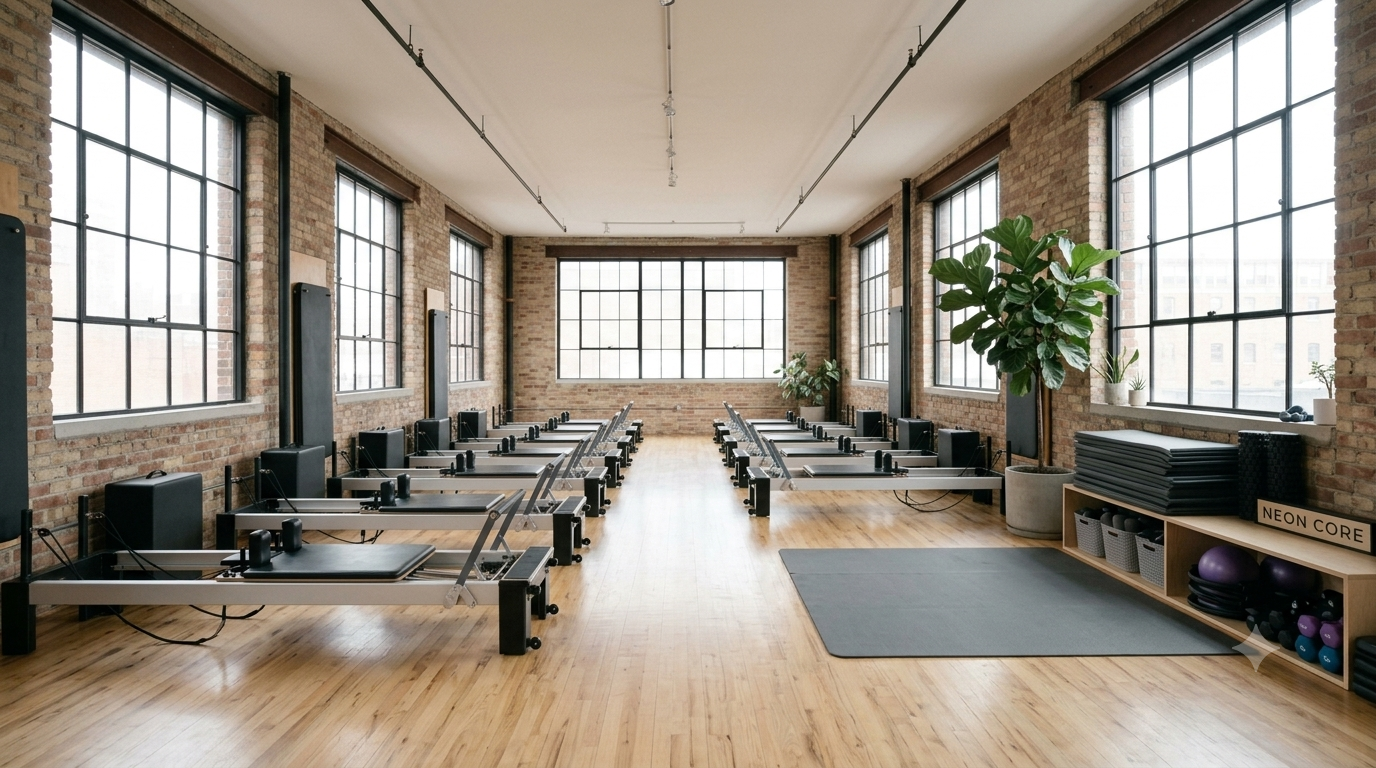
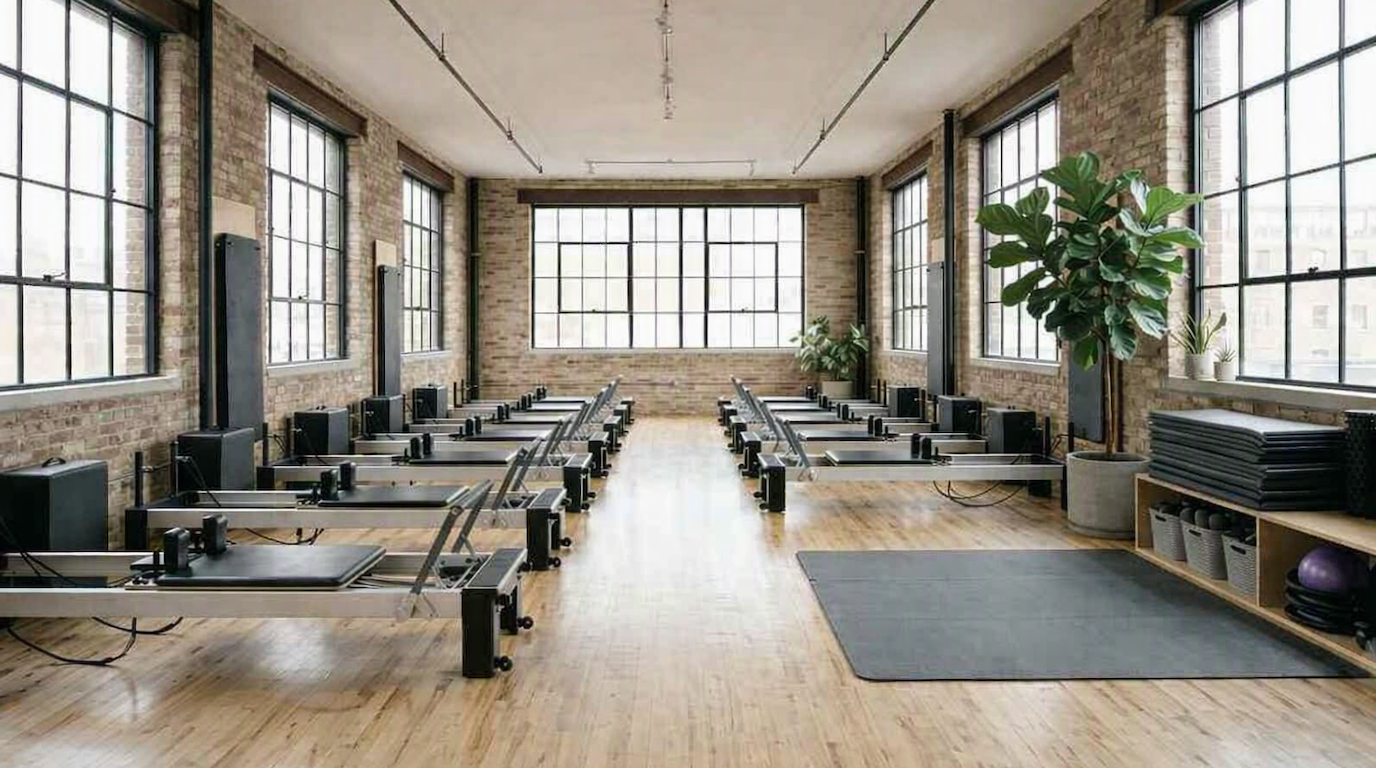
copy audit and edits complete

diff --git a/src/sections/hero/Hero.tsx b/src/sections/hero/Hero.tsx
@@ -11,7 +11,7 @@ function Hero() {
             <div id="hero-image" className="shadow">
               <Image
                 src={Pilates}
-                alt="Woman doing pilates"
+                alt="A woman with dark hair in a low bun performs a controlled reformer exercise, seated upright with one leg extended, in a sunlit studio with brick walls and rows of reformers."
                 className="rounded-lg"
                 loading="eager"
               />
@@ -24,12 +24,12 @@ function Hero() {
                 Grow stronger from the ground up.
               </h1>
               <p className="text-lg lg:text-xl">
-                Reformer and mat classes built around precision, breath, and
+                Reformer and Mat classes built around precision, breath, and
                 room to move at your own pace.
               </p>
               <div className="flex flex-col items-center gap-6 lg:flex-row">
                 <Link href="/schedule" className="btn btn-lg btn-primary">
-                  Book a Drop-in Class
+                  Book a Drop-In Class
                 </Link>
                 <Link href="/schedule" className="link-primary">
                   View Schedule →

diff --git a/src/app/not-found.tsx b/src/app/not-found.tsx
@@ -9,8 +9,8 @@ function NotFound() {
           This page took a rest day.
         </h1>
         <p className="mb-4">
-          The page you&apos;re looking for doesn&apos;t exist — maybe it moved,
-          or the link was mistyped.
+          The page you&rsquo;re looking for doesn&rsquo;t exist — maybe it
+          moved, or the link was mistyped.
         </p>
         <Link href="/" className="btn btn-primary">
           <IconArrowBackUp className="mr-2" />

diff --git a/src/sections/contact/FAQ.tsx b/src/sections/contact/FAQ.tsx
@@ -15,9 +15,9 @@ const faqs: FAQItem[] = [
       "Cancel or reschedule up to 4 hours before class with no penalty. Late cancellations forfeit the class from your pack or membership.",
   },
   {
-    question: "Do I need experience to take a reformer class?",
+    question: "Do I need experience to take a Reformer class?",
     answer:
-      "No experience required. Instructors walk first-timers through the machine before class, and every session can be modified to your level.",
+      "No experience required. Instructors walk first-timers through the machine beforehand, and every class can be modified to your level.",
   },
   {
     question: "Is parking available?",

diff --git a/src/sections/schedule/JoinButtonModal.tsx b/src/sections/schedule/JoinButtonModal.tsx
@@ -52,8 +52,8 @@ function JoinButtonModal({
               }
             >
               {state.status === "booked"
-                ? "You're in!"
-                : "You're on the waitlist."}
+                ? "You&rsquo;re in!"
+                : "You&rsquo;re on the waitlist."}
             </p>
             <button onClick={closeModal} className="btn btn-sm mt-4">
               Close

diff --git a/src/app/error.tsx b/src/app/error.tsx
@@ -18,7 +18,7 @@ function ErrorPage({ error, reset }: ErrorPageProps) {
     <main className="bg-neutral text-neutral-content flex flex-1 items-center justify-center py-20">
       <section className="text-center">
         <h1 className="font-display mb-6 text-center text-2xl font-semibold lg:text-4xl">
-          Something didn&apos;t stretch quite right.
+          Something didn&rsquo;t stretch quite right.
         </h1>
         <p className="mb-4">
           Something went wrong on our end — you can try again, or head back to

diff --git a/src/app/instructors/page.tsx b/src/app/instructors/page.tsx
@@ -6,7 +6,7 @@ import { Metadata } from "next";
 const meta = {
   title: "Instructors - Fernwood Pilates Studio",
   description:
-    "Visit Fernwood Pilates Studio in West Hollywood, right off Santa Monica Blvd. Studio hours, directions, and answers to frequently asked questions.",
+    "Meet Fernwood's Reformer and mat Pilates instructors, led by founder Simone Vega, plus a team of apprentices training under her in West Hollywood.",
 };
 
 const metadata: Metadata = {

diff --git a/src/sections/instructors/FindYourMatch.tsx b/src/sections/instructors/FindYourMatch.tsx
@@ -9,7 +9,7 @@ function FindYourMatch() {
       <div className="container mx-auto px-2 md:px-0">
         <div className="flex flex-col items-center justify-center gap-6">
           <h2 className="font-display text-3xl font-semibold lg:text-5xl">
-            Find Your Match.
+            Find your match.
           </h2>
           <p className="max-w-[45ch] text-center text-lg lg:text-xl">
             Every instructor brings something different — browse the schedule to

diff --git a/src/sections/instructors/InstructorCard.tsx b/src/sections/instructors/InstructorCard.tsx
@@ -8,7 +8,7 @@ function InstructorCard({ photo, name, role, bio }: InstructorItem) {
         <figure>
           <Image
             src={photo}
-            alt={name}
+            alt={`Portrait of ${name}`}
             className="mb-4 rounded-lg"
             width={480}
             height={358}

diff --git a/src/sections/instructors/instructors-data.ts b/src/sections/instructors/instructors-data.ts
@@ -14,7 +14,7 @@ const instructors: InstructorItem[] = [
   {
     name: "Simone Vega",
     role: "Power Reformer",
-    bio: "Simone builds strength from the ground up — controlled, deliberate sessions that leave you steadier than when you walked in.",
+    bio: "Simone builds strength from the ground up — controlled, deliberate classes that leave you steadier than when you walked in.",
     photo: Simone,
   },
   {

diff --git a/src/sections/pricing/Pricing.tsx b/src/sections/pricing/Pricing.tsx
@@ -15,9 +15,9 @@ const plans: PricingPlan[] = [
     price: "$38",
     priceNote: "per class",
     features: [
+      "*First class free for first-timers",
       "Single reformer or mat class",
       "No commitment",
-      "Great for first-timers",
     ],
     cta: "Book a Class",
   },

diff --git a/src/sections/schedule/CancelBookingModal.tsx b/src/sections/schedule/CancelBookingModal.tsx
@@ -52,7 +52,7 @@ function CancelBookingModal({
             <p className="text-secondary font-semibold">
               {myStatus === "booked"
                 ? "Your booking has been canceled."
-                : "You've left the waitlist."}
+                : "You&rsquo;ve left the waitlist."}
             </p>
             <button onClick={closeModal} className="btn btn-sm mt-4">
               Close

diff --git a/src/sections/sign-in/SignIn.tsx b/src/sections/sign-in/SignIn.tsx
@@ -15,7 +15,7 @@ function SignIn({ error }: SignInProps) {
         {error === "auth-failed" && (
           <div role="alert" className="alert alert-error mx-auto mb-4 max-w-80">
             <span>
-              We couldn&apos;t verify your magic link. Please try signing in
+              We couldn&rsquo;t verify your magic link. Please try signing in
               again.
             </span>
           </div>